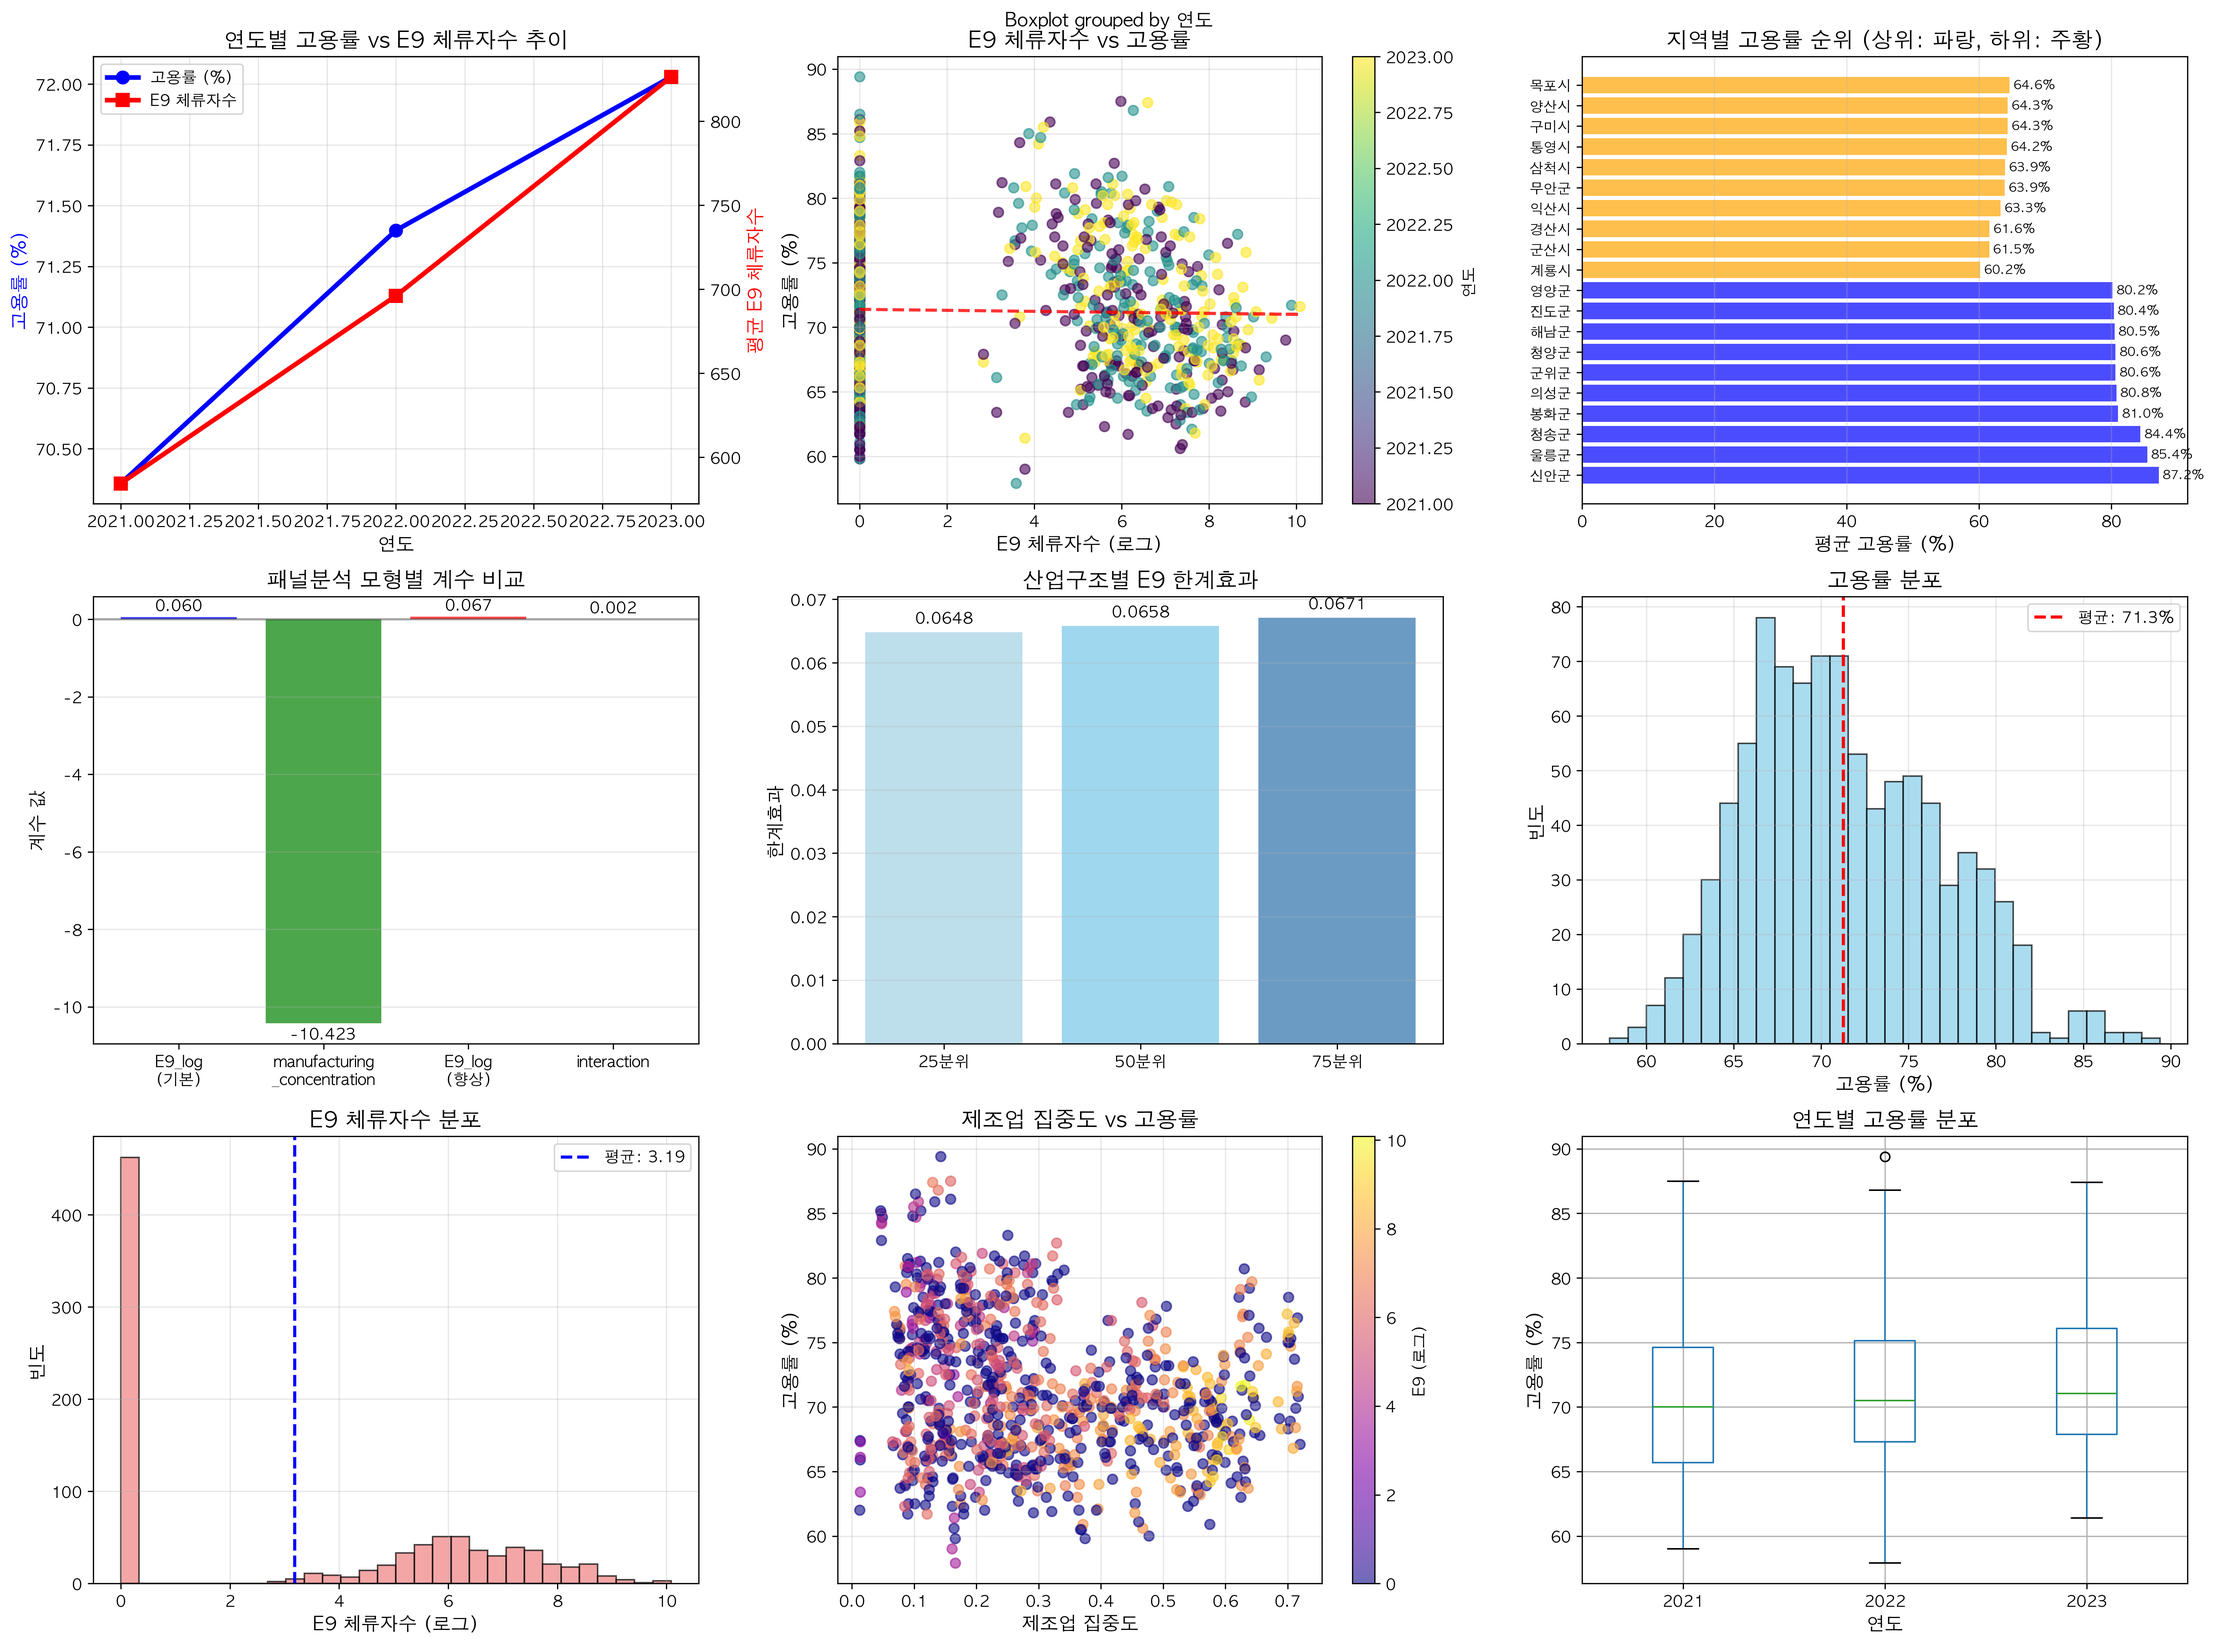
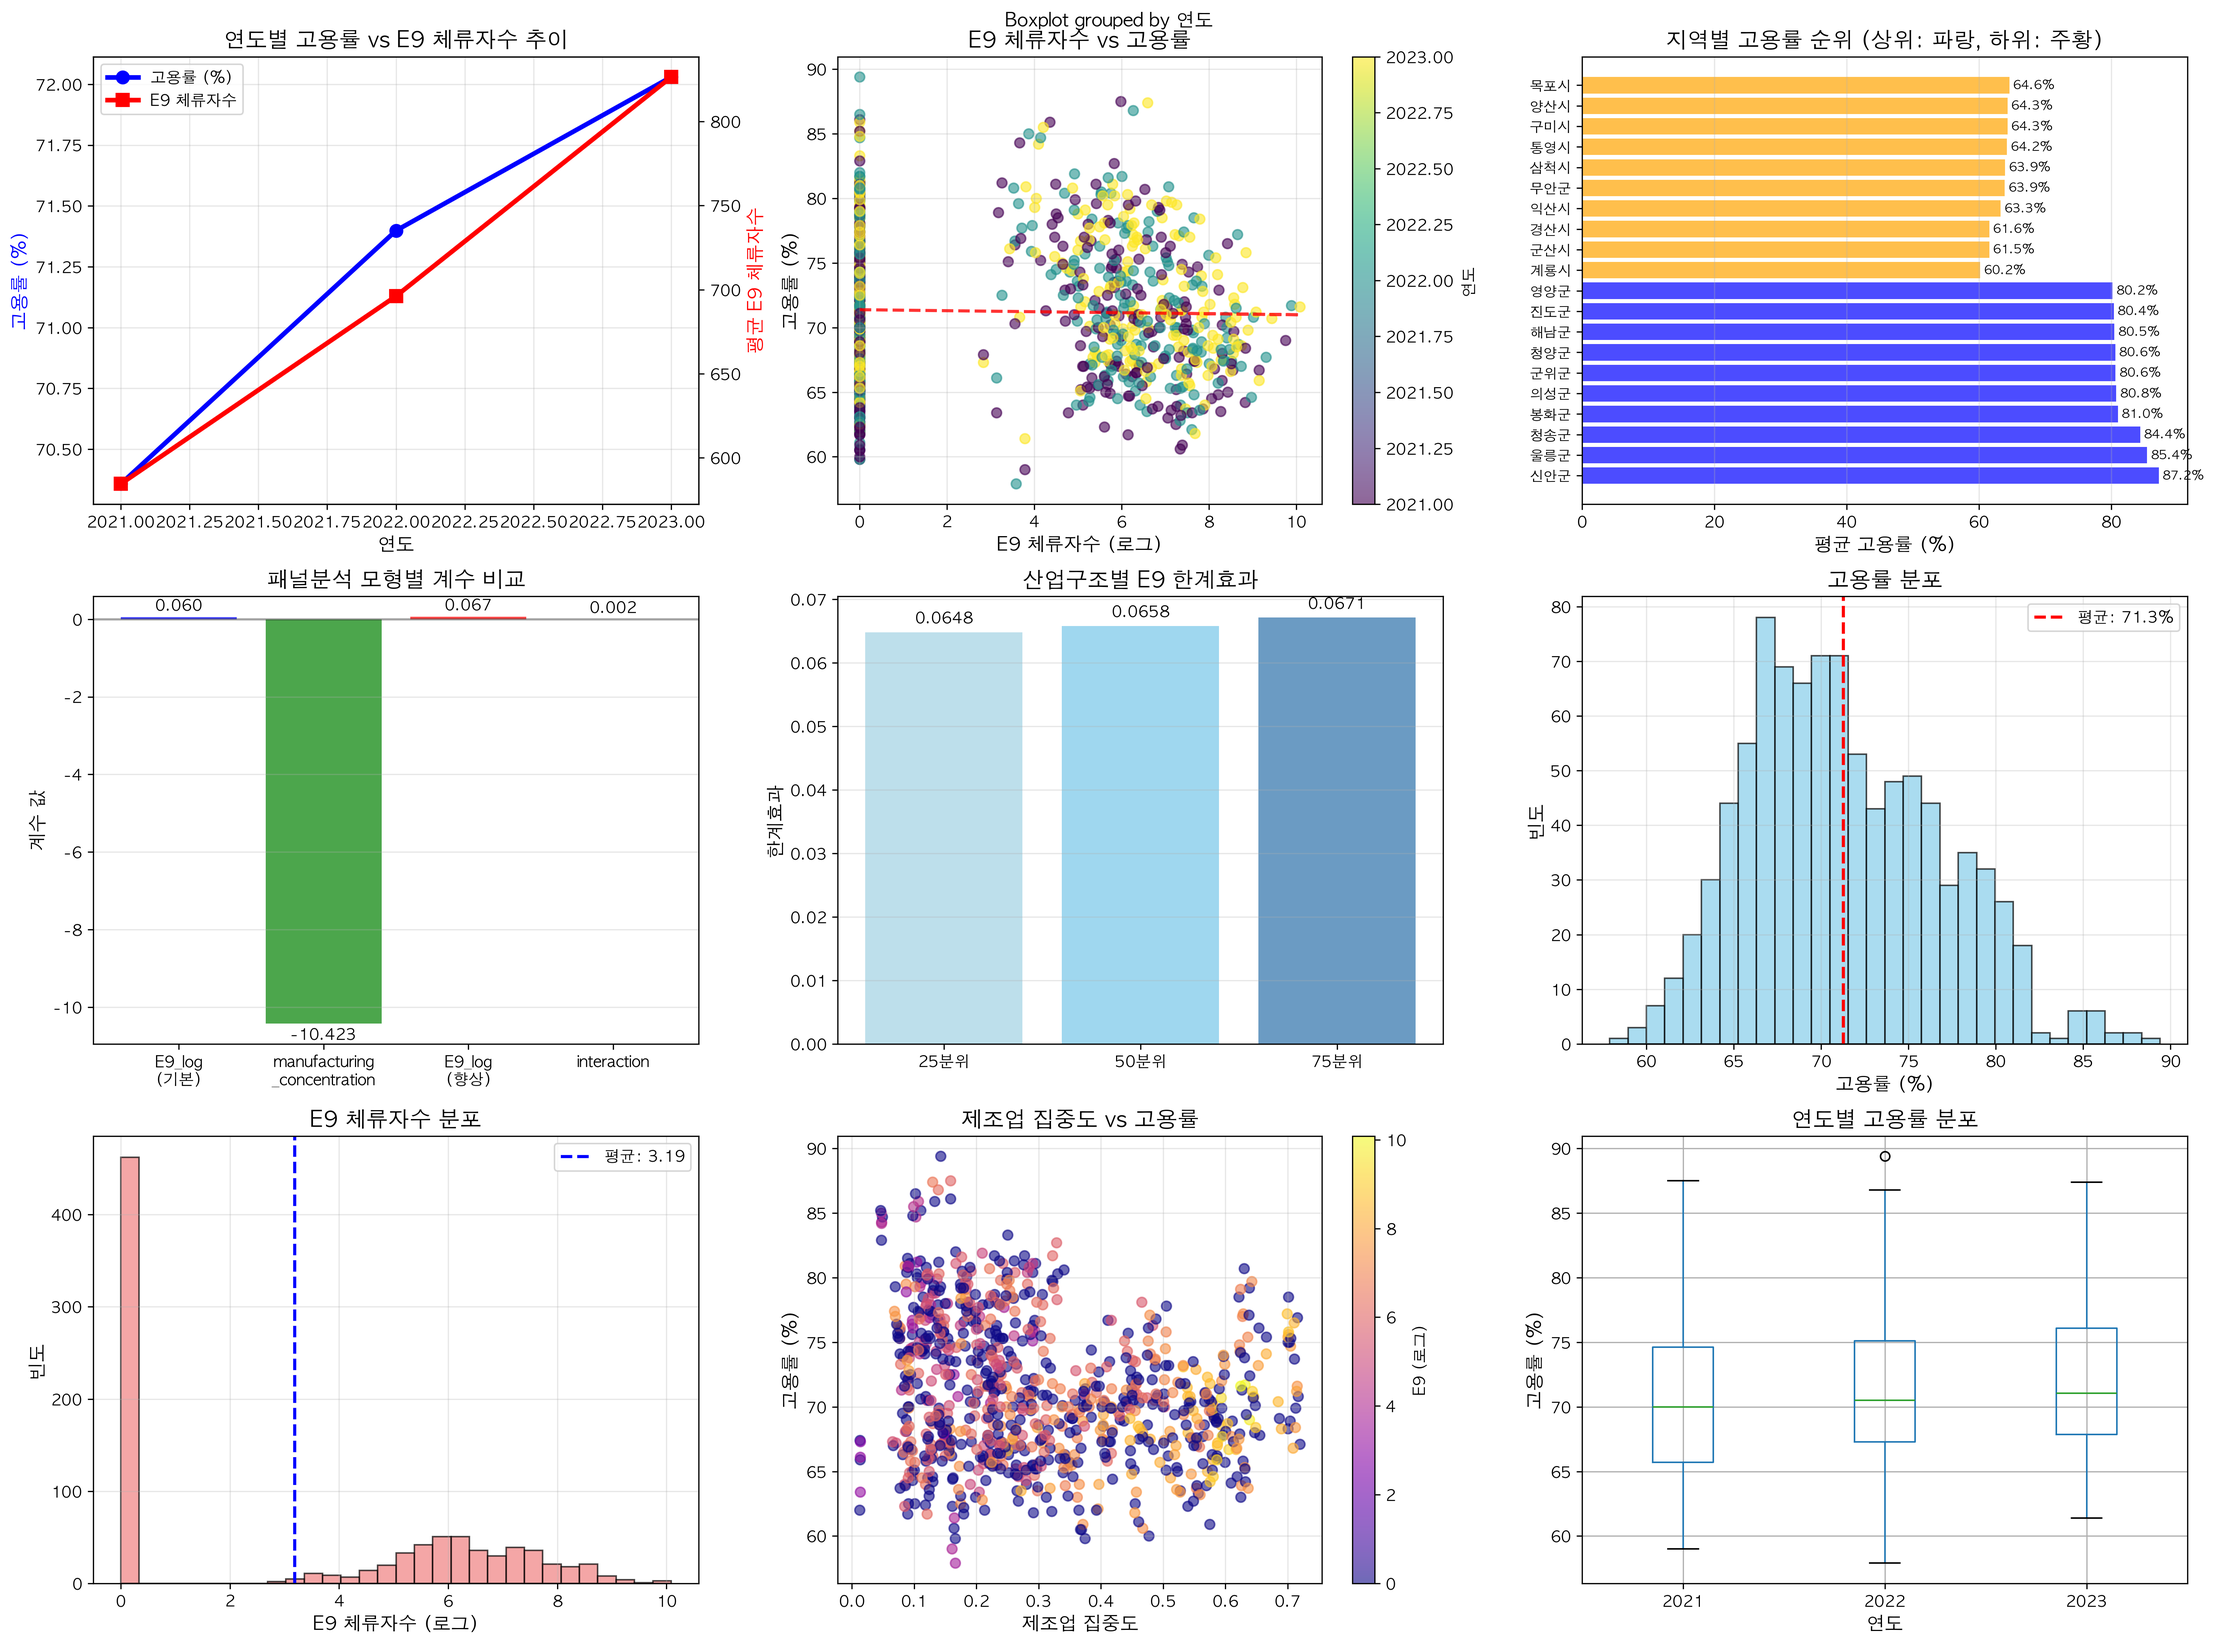
feature: refactor code system

diff --git a/comprehensive_employment_analysis.py b/comprehensive_employment_analysis.py
@@ -27,7 +27,20 @@ import matplotlib.pyplot as plt
 import seaborn as sns
 from scipy import stats
 import warnings
+import os
+from pathlib import Path
+
 warnings.filterwarnings('ignore')
+
+# 프로젝트 루트 디렉토리 설정
+PROJECT_ROOT = Path(__file__).parent
+DATA_DIR = PROJECT_ROOT / "data"
+PROCESSED_DATA_DIR = DATA_DIR / "processed"
+OUTPUTS_DIR = PROJECT_ROOT / "outputs"
+
+# 필요한 디렉토리 생성
+PROCESSED_DATA_DIR.mkdir(parents=True, exist_ok=True)
+OUTPUTS_DIR.mkdir(parents=True, exist_ok=True)
 
 # 한글 폰트 설정
 plt.rcParams['font.family'] = 'AppleGothic'
@@ -41,7 +54,8 @@ print("1. 2019-2023년 전체 기간 고용률 데이터 보유 지자체 식별
 print("-" * 60)
 
 # Excel 파일에서 2019-2020년 데이터 확인
-df_excel = pd.read_excel('citycounty_gender_laborforce_summary.xlsx')
+excel_file_path = PROJECT_ROOT / 'citycounty_gender_laborforce_summary.xlsx'
+df_excel = pd.read_excel(excel_file_path)
 df_excel_clean = df_excel.iloc[1:].reset_index(drop=True)
 df_excel_clean.columns = ['시군구', '성별'] + [col for col in df_excel_clean.columns[2:]]
 df_excel_clean = df_excel_clean.replace('-', np.nan)
@@ -59,7 +73,8 @@ regions_with_2019_2020 = df_2019_2020.dropna(subset=year_2019_2020_cols)['시군
 print(f"2019-2020년 고용률 데이터 보유 지자체: {len(regions_with_2019_2020)}개")
 
 # 기존 통합 데이터에서 2021-2023년 고용률 데이터 확인
-df_integrated = pd.read_csv('data/processed/최종_통합데이터_수정_utf-8.csv')
+integrated_data_path = PROCESSED_DATA_DIR / '최종_통합데이터_수정_utf-8.csv'
+df_integrated = pd.read_csv(integrated_data_path)
 
 # 지자체명 매칭 함수
 def clean_region_name(name):
@@ -400,7 +415,8 @@ ax9.set_xlabel('연도', fontsize=12)
 ax9.set_ylabel('고용률 (%)', fontsize=12)
 
 plt.tight_layout()
-plt.savefig('outputs/2019_2023_종합_E9고용률_분석결과.png', dpi=300, bbox_inches='tight')
+output_image_path = OUTPUTS_DIR / '2019_2023_종합_E9고용률_분석결과.png'
+plt.savefig(output_image_path, dpi=300, bbox_inches='tight')
 plt.show()
 
 # 8. 데이터 저장
@@ -408,7 +424,8 @@ print(f"\n8. 결과 저장")
 print("-" * 60)
 
 # 분석 데이터 저장
-df_final.to_csv('data/processed/2019_2023_전체기간_분석데이터.csv', index=False, encoding='utf-8')
+analysis_data_path = PROCESSED_DATA_DIR / '2019_2023_전체기간_분석데이터.csv'
+df_final.to_csv(analysis_data_path, index=False, encoding='utf-8')
 
 # 결과 요약 저장
 results_summary = f"""
@@ -444,7 +461,8 @@ results_summary = f"""
    - 상위 지역(파랑)과 하위 지역(주황)의 명확한 구분 확인
 """
 
-with open('outputs/2019_2023_종합분석_요약.txt', 'w', encoding='utf-8') as f:
+summary_file_path = OUTPUTS_DIR / '2019_2023_종합분석_요약.txt'
+with open(summary_file_path, 'w', encoding='utf-8') as f:
     f.write(results_summary)
 
 # 계수 결과 저장
@@ -456,7 +474,8 @@ coef_results = pd.DataFrame({
             model_enh.coef_[0], model_enh.coef_[1], model_enh.coef_[2]]
 })
 
-coef_results.to_csv('outputs/2019_2023_패널분석_계수결과.csv', index=False, encoding='utf-8')
+coef_results_path = OUTPUTS_DIR / '2019_2023_패널분석_계수결과.csv'
+coef_results.to_csv(coef_results_path, index=False, encoding='utf-8')
 
 # 지역별 순위 저장
 region_ranking = pd.DataFrame({
@@ -465,7 +484,8 @@ region_ranking = pd.DataFrame({
     '평균고용률': region_employment.values
 })
 
-region_ranking.to_csv('outputs/2019_2023_지역별_고용률_순위.csv', index=False, encoding='utf-8')
+region_ranking_path = OUTPUTS_DIR / '2019_2023_지역별_고용률_순위.csv'
+region_ranking.to_csv(region_ranking_path, index=False, encoding='utf-8')
 
 print(f"✅ 2019-2023년 전체 기간 통합 E9-고용률 분석 완료!")
 print(f"✅ 최종 분석 대상: {len(final_regions)}개 지자체")

diff --git a/archived_code/src/analyze/comprehensive_panel_analysis.py b/archived_code/src/analyze/comprehensive_panel_analysis.py
@@ -3,6 +3,13 @@
 """
 Comprehensive Panel Data Analysis Module - Full Dataset Analysis
 전체 데이터(2019-2023)를 활용한 완전한 패널분석 (불균형 패널 포함)
+
+⚠  ARCHIVED CODE ⚠
+이 파일은 아카이브되었으며 현재 사용되지 않습니다.
+메인 분석은 프로젝트 루트의 comprehensive_employment_analysis.py를 사용하세요.
+
+경로 수정이 필요한 경우:
+- ROOT_DIR = Path(__file__).parent.parent.parent.parent  (archived_code/src/에서 프로젝트 루트까지)
 """
 
 import pandas as pd
